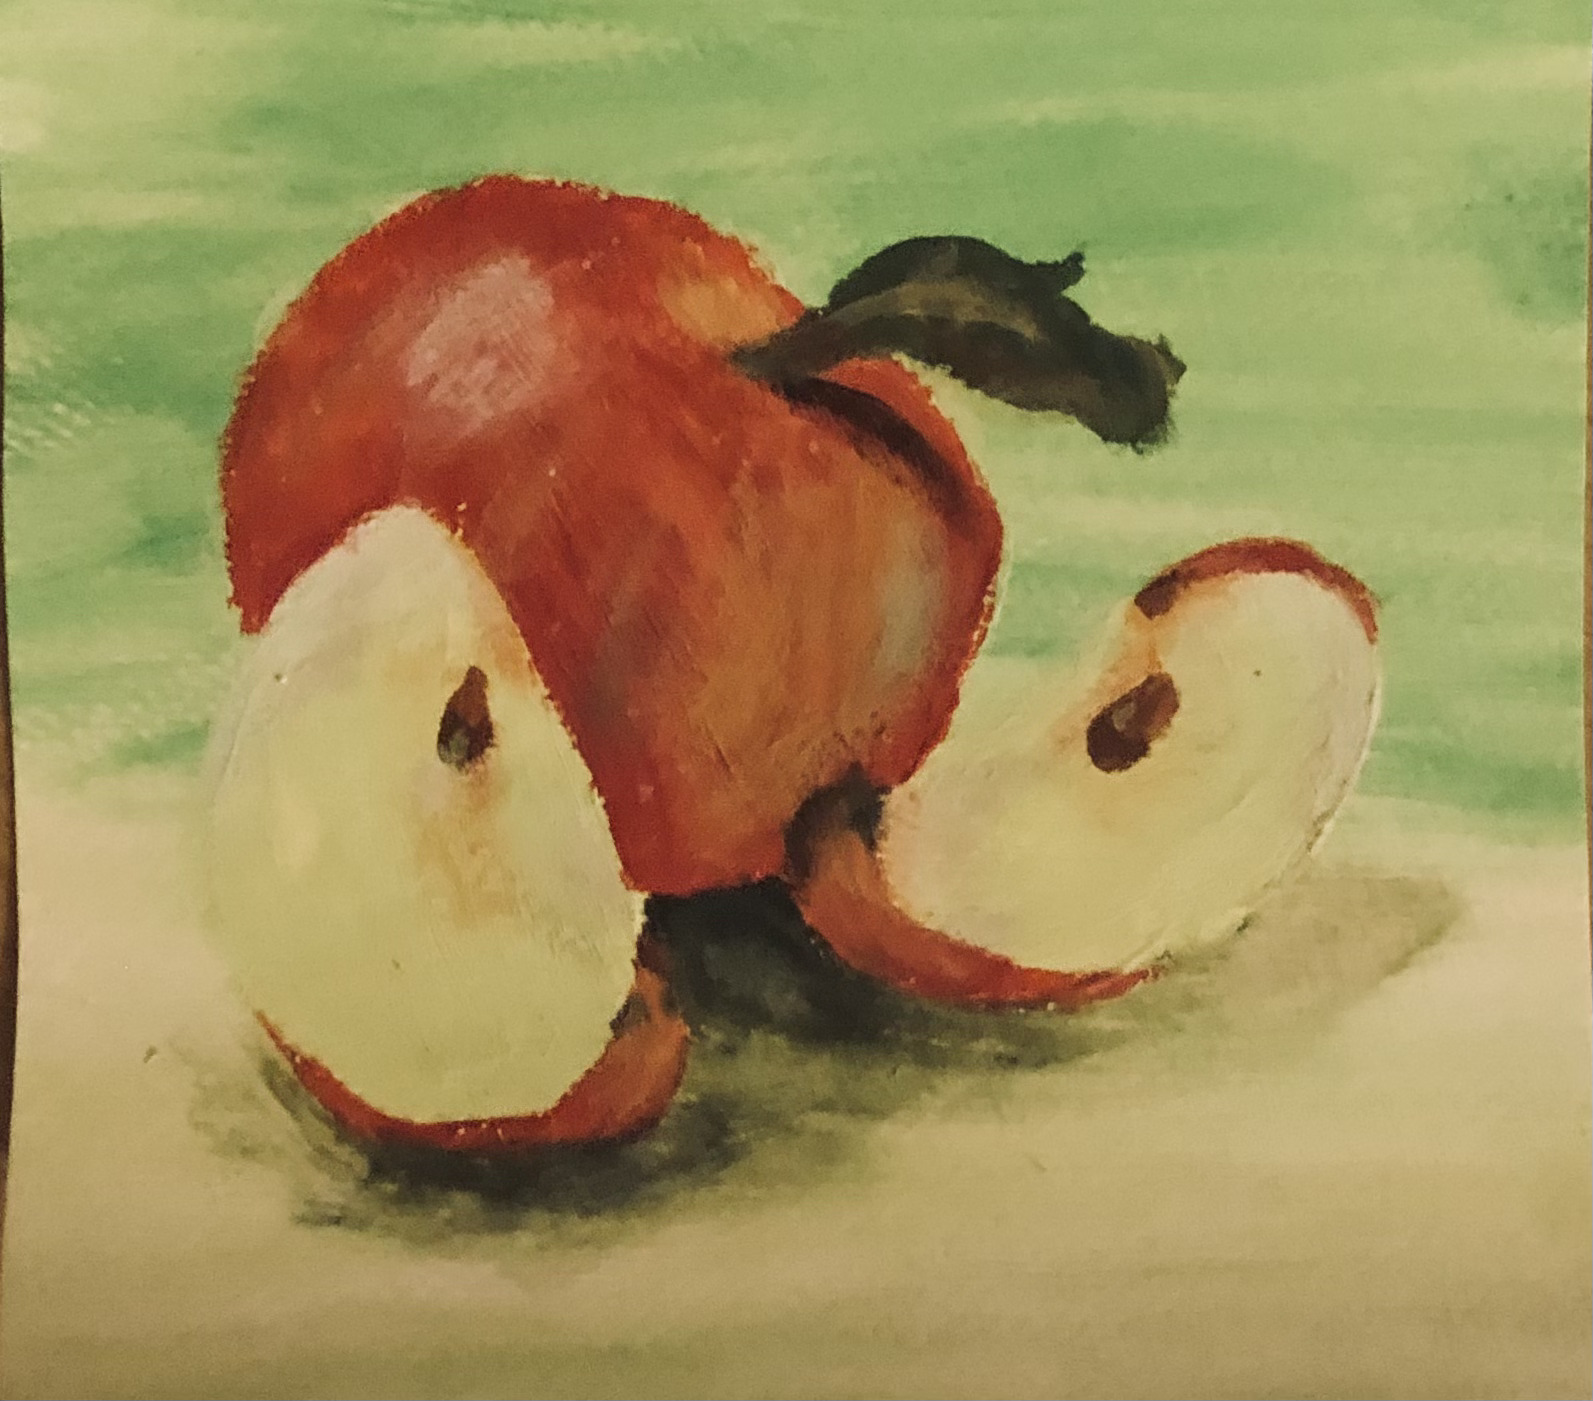
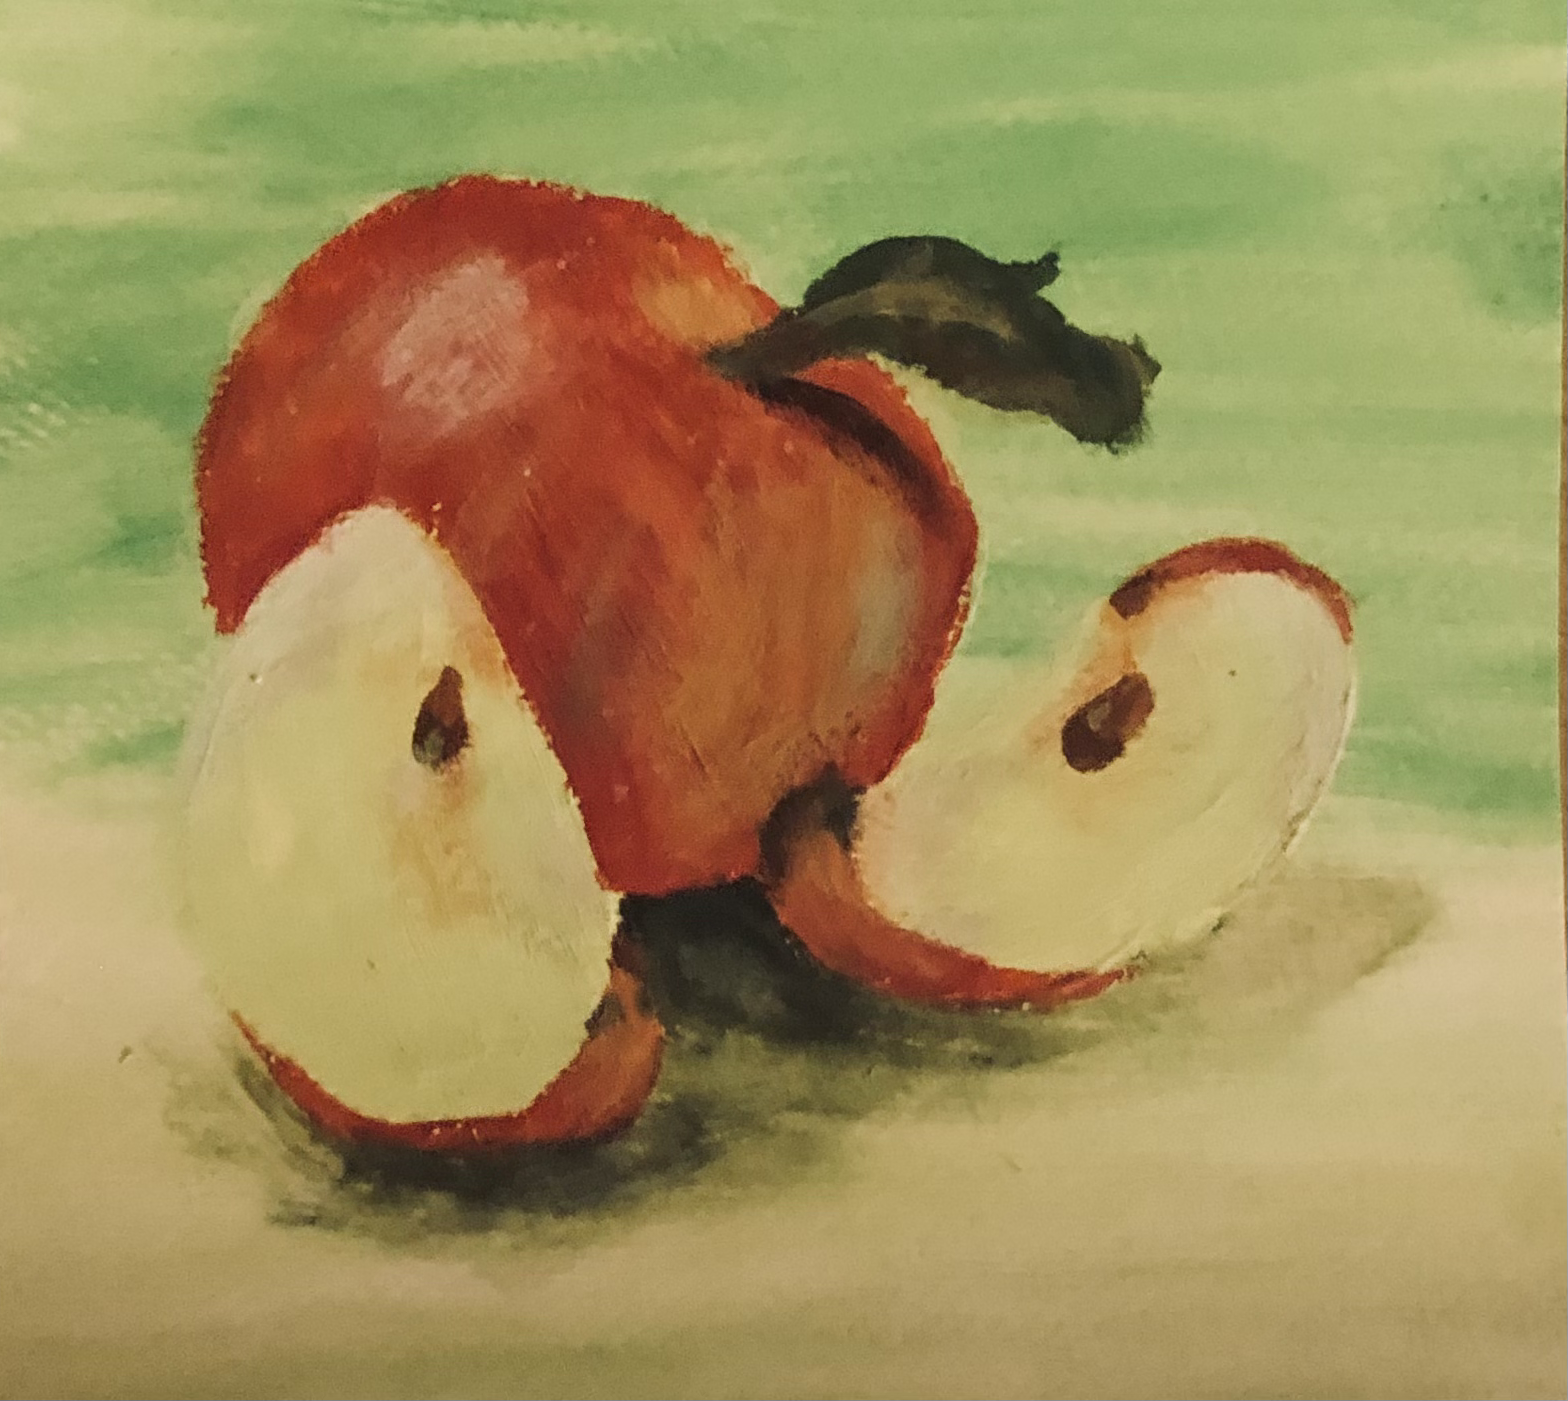
Reformatted life (section)

diff --git a/assets/stylesheets/main.css b/assets/stylesheets/main.css
@@ -350,6 +350,12 @@ tr, td, th { vertical-align: middle; }
 .sidebar .menu a { display: block; }
 .sidebar .menu::after { position: absolute; bottom: 0; width: 1.5em; height: 1px; background-color: #393e46; content: ""; }
 .sidebar .menu li { margin-bottom: 1.5rem; }
+.sidebar .menu-label { display: block; color: #393e46; }
+.sidebar .sub-menu { margin: 0.85rem 0 0 0.15em; padding-left: 0.65em; border-left: 2px solid #ffa500; font-size: 0.55em; line-height: 1.2; list-style: none; }
+.sidebar .sub-menu li { margin-bottom: 0.7rem; }
+.sidebar .sub-menu li:last-child { margin-bottom: 0; }
+.sidebar .sub-menu a::before { left: -1.3rem; }
+.sidebar .sub-menu a:hover::before { width: 0.8rem; }
 .sidebar .contact-list { margin-top: 0.5rem; padding-top: 0.5rem; }
 .sidebar .contact-list { font-size: 18px; }
 @media screen and (min-width: 320px) { .sidebar .contact-list { font-size: calc(18px + 6 * ((100vw - 320px) / 960)); } }
@@ -366,7 +372,9 @@ tr, td, th { vertical-align: middle; }
 
 .art-gallery .gallery {
   display: grid;
-  grid-template-columns: repeat(auto-fit, minmax(140px, 1fr));
+  grid-template-columns: repeat(auto-fill, minmax(160px, 1fr));
+  grid-auto-rows: 8px;
+  grid-auto-flow: dense;
   gap: 1rem;
   margin-top: 1.5rem;
 }
@@ -378,13 +386,19 @@ tr, td, th { vertical-align: middle; }
 .art-gallery .gallery-item img {
   display: block;
   width: 100%;
-  aspect-ratio: 1 / 1;
-  object-fit: cover;
+  height: auto;
+  border-radius: 0.2rem;
 }
 
 .art-gallery .gallery-item figcaption {
   margin-top: 0.4rem;
   font-size: 0.85rem;
+}
+
+@media (min-width: 40em) {
+  .art-gallery .gallery-item.is-wide {
+    grid-column: span 2;
+  }
 }
 
 /* ========================================================================== Navigation ========================================================================== */
@@ -546,6 +560,12 @@ tr, td, th { vertical-align: middle; }
 .intro-image img { width: 100%; }
 .image-credit { display: block; width: 100%; margin: 0; padding: 0.3rem 0.75rem 0; color: #666; font-size: 0.7rem; line-height: 1.3; text-align: right; }
 .image-credit a { color: inherit; }
+
+.reading-table { margin-top: 1rem; }
+.reading-table tbody tr:nth-child(even) { background-color: #f7f7f7; }
+.reading-table tbody tr:hover { background-color: #fff4e0; }
+.reading-table th:last-child,
+.reading-table td:last-child { width: 10rem; white-space: nowrap; text-align: right; }
 
 .intro-text { /* remove space after last child element */ }
 .intro-text > *:last-child { margin-bottom: 0; }

diff --git a/_includes/navigation.html b/_includes/navigation.html
@@ -11,9 +11,26 @@
     {% assign default_paths = site.pages | map: "path" %}
     {% assign page_paths = site.data.theme.navigation_pages | default: default_paths %}
 
-    {% for path in page_paths %}
-      {% assign my_page = site.pages | where: "path", path | first %}
-      {% if my_page.title %}
+    {% for item in page_paths %}
+      {% assign nav_path = item.path | default: item %}
+      {% assign my_page = site.pages | where: "path", nav_path | first %}
+      {% if item.children %}
+        <li class="menu-item menu-item--parent">
+          <span class="menu-label">{{ item.title | escape }}</span>
+          <ul class="sub-menu" aria-label="{{ item.title | escape }} submenu">
+            {% for child in item.children %}
+              {% assign child_page = site.pages | where: "path", child.path | first %}
+              {% if child_page.title %}
+                <li class="menu-item">
+                  <a href="{{ child_page.url | relative_url }}" itemprop="url">
+                    <span itemprop="name">{{ child_page.title | escape }}</span>
+                  </a>
+                </li>
+              {% endif %}
+            {% endfor %}
+          </ul>
+        </li>
+      {% elsif my_page.title %}
         <li class="menu-item">
           <a href="{{ my_page.url | relative_url }}" itemprop="url">
             <span itemprop="name">{{ my_page.title | escape }}</span>

diff --git a/index.html b/index.html
@@ -2,7 +2,7 @@
 layout: home
 paginate: true
 alt_title: "Hi, I'm Jess"
-sub_title: "I build AI and machine learning tools for governments."
+sub_title: "I build AI and automations for governments."
 image:
   path: /assets/images/city-banner.jpg
   credit:

diff --git a/creative/art.md b/creative/art.md
@@ -17,3 +17,55 @@ sub_title: Things I made (sketches, paintings, and experiments).
     {% endfor %}
   </div>
 </div>
+
+<script>
+  (function () {
+    const gallery = document.querySelector('.art-gallery .gallery');
+    if (!gallery) return;
+
+    const items = Array.from(gallery.querySelectorAll('.gallery-item'));
+    let resizeFrame;
+
+    function sizeItem(item) {
+      const image = item.querySelector('img');
+      const styles = window.getComputedStyle(gallery);
+      const rowHeight = parseFloat(styles.gridAutoRows);
+      const rowGap = parseFloat(styles.rowGap);
+
+      if (image.naturalWidth / image.naturalHeight >= 1.1) {
+        item.classList.add('is-wide');
+      } else {
+        item.classList.remove('is-wide');
+      }
+
+      const caption = item.querySelector('figcaption');
+      const captionStyles = caption ? window.getComputedStyle(caption) : null;
+      const captionHeight = caption
+        ? caption.getBoundingClientRect().height + parseFloat(captionStyles.marginTop)
+        : 0;
+      const itemHeight = image.getBoundingClientRect().height + captionHeight;
+
+      item.style.gridRowEnd = `span ${Math.ceil((itemHeight + rowGap) / (rowHeight + rowGap))}`;
+    }
+
+    function layoutGallery() {
+      items.forEach(function (item) {
+        item.style.gridRowEnd = 'auto';
+      });
+      items.forEach(sizeItem);
+    }
+
+    items.forEach(function (item) {
+      const image = item.querySelector('img');
+      if (!image.complete) image.addEventListener('load', layoutGallery, { once: true });
+    });
+
+    window.addEventListener('load', layoutGallery);
+    window.addEventListener('resize', function () {
+      window.cancelAnimationFrame(resizeFrame);
+      resizeFrame = window.requestAnimationFrame(layoutGallery);
+    });
+
+    layoutGallery();
+  }());
+</script>

diff --git a/reading.md b/reading.md
@@ -1,0 +1,40 @@
+---
+title: Reading
+layout: page
+permalink: /reading/
+sub_title: Books and other works I've read.
+---
+
+| Book | Date finished |
+|:-----|--------------:|
+| Old Water (1911) | Aug 31, 2026 |
+| The Rocking-Chair (1893) | Aug 31, 2026 |
+| The Yellow Wall-Paper (1892) | Aug 31, 2026 |
+| Naufrage (2023) | Aug 21, 2026 |
+| The Conquest of Bread (1892) | Aug 3, 2026 |
+| Condensed Matter Physics: A Very Short Introduction (2023) | Jul 18, 2026 |
+| Ocean Diver to Sports Diver Course (2026) | Jul 15, 2026 |
+| The Penelopiad (2005) | May 31, 2026 |
+| No Longer Human (1948) | May 19, 2026 |
+| Safety and Rescue for Divers (2019) | Apr 14, 2026 |
+| Weep Not, Child (1964) | Apr 8, 2026 |
+| Invisible Cities (1972) | Mar 30, 2026 |
+| Heart of Darkness (1899) | Mar 26, 2026 |
+| The Bell Jar (1963) | Dec 12, 2025 |
+| Extreme Events in Nature and Society (2006) | Nov 21, 2025 |
+| Jane Eyre (1848) | Sep 20, 2025 |
+| Klara and the Sun (2021) | Aug 12, 2025 |
+| Ecotopia (1975) | Aug 8, 2025 |
+| Slaughterhouse-Five (1969) | Jul 18, 2025 |
+| Anandamath (1882) | Jul 3, 2025 |
+| On Confidence (2017) | Jun 13, 2025 |
+| The Ones Who Walk Away from Omelas (1973) | May 19, 2025 |
+| A Wizard of Earthsea (1968) | Apr 11, 2025 |
+| The Dispossessed (1974) | Mar 21, 2025 |
+| The Word for World Is Forest (1972) | Mar 6, 2025 |
+| Left Hand of Darkness (1969) | Feb 28, 2025 |
+| Foundation (1951) | Jan 23, 2025 |
+| Africa's Development in Historical Perspective (2014) | Jul 28, 2024 |
+| The Alignment Problem: Machine Learning and Human Values (2020) | Mar 17, 2024 |
+| How to Launch a High Impact Non-Profit (2021) | Mar 4, 2024 |
+{: .reading-table}
